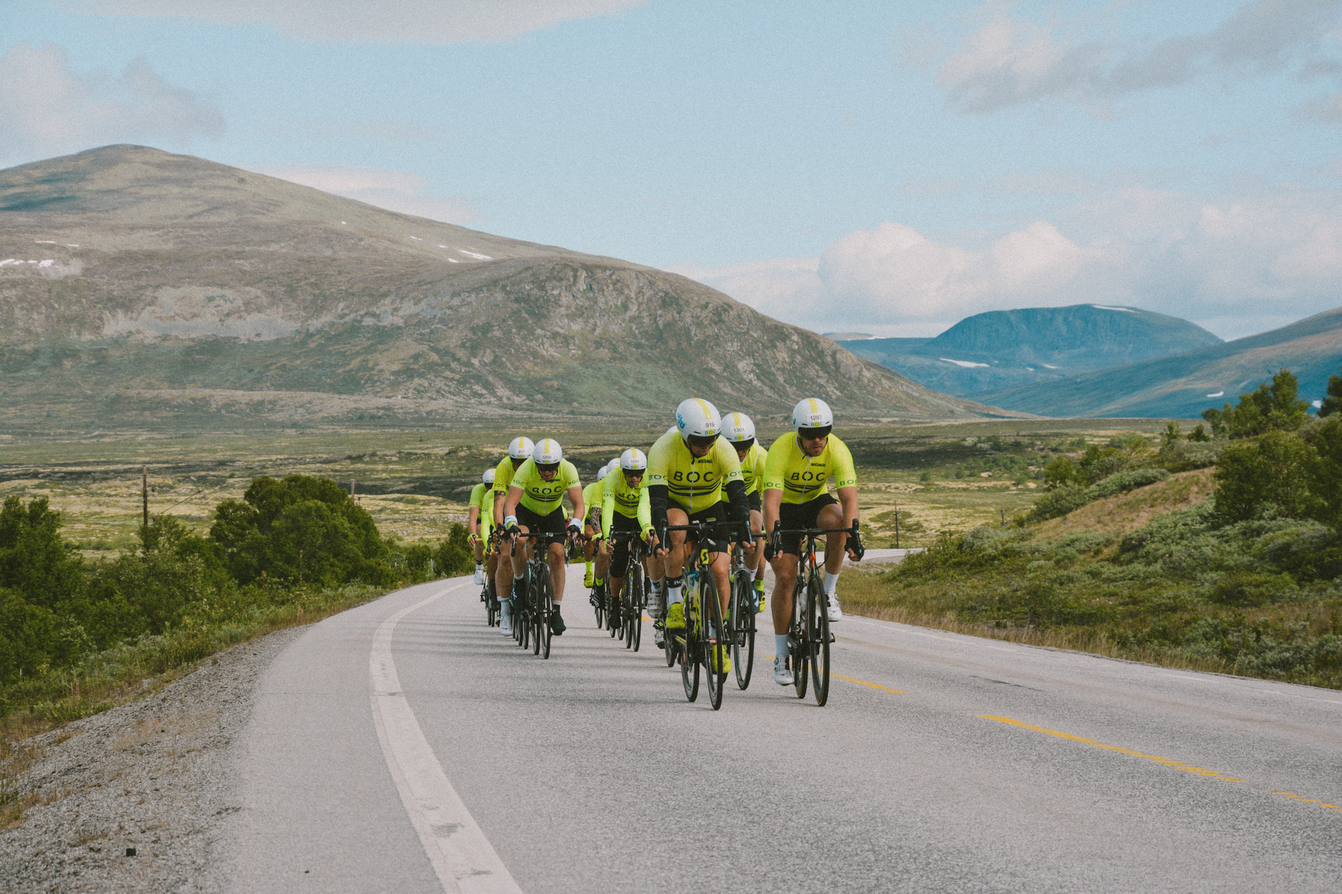
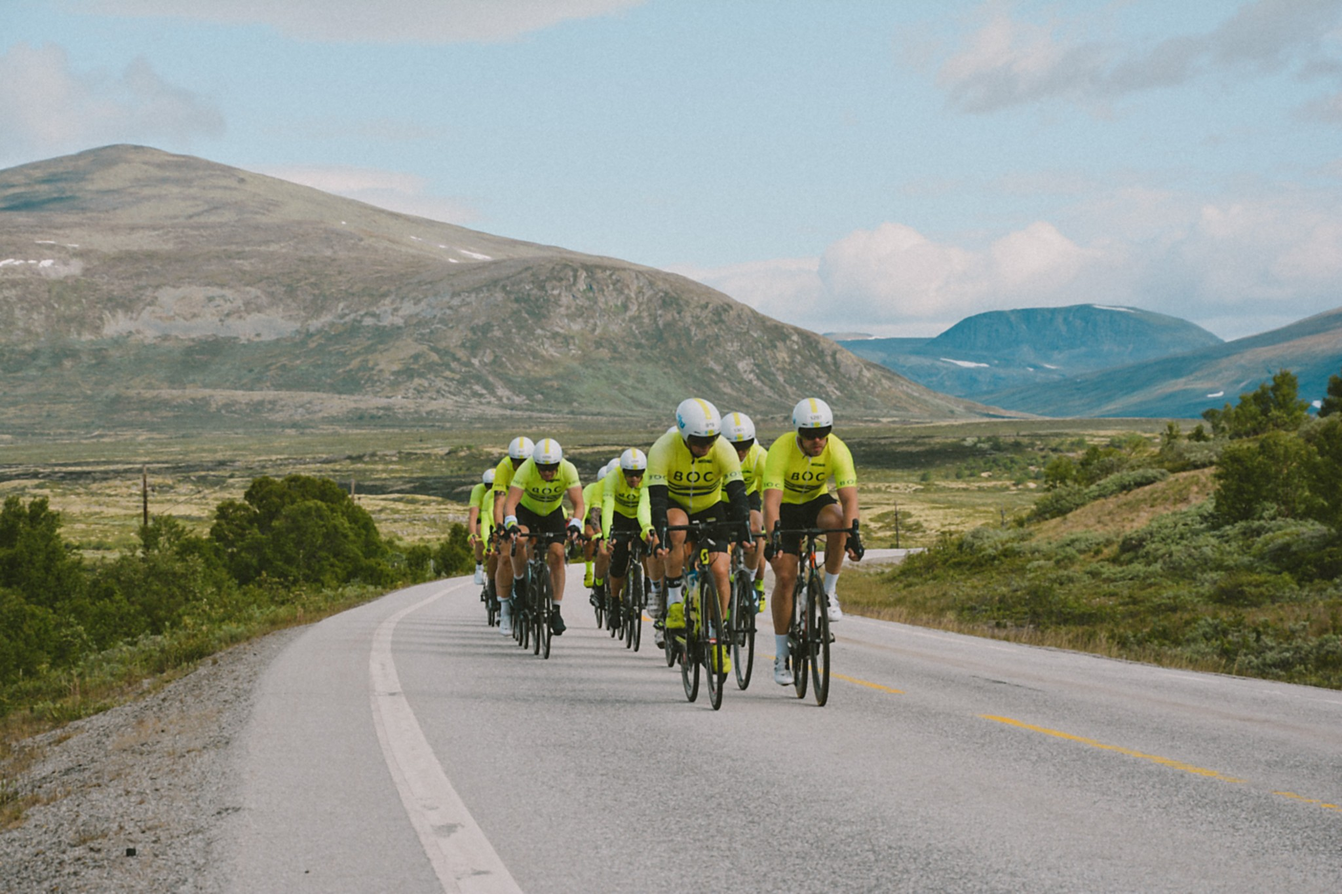
Hvit studio keeps older portraits without a background mark; BOC T-O pace and Langdistanse label in the menu; sponsors on one row; softer BOC 1 photo

diff --git a/src/components/public/sponsors.tsx b/src/components/public/sponsors.tsx
@@ -3,65 +3,57 @@ import type { Sponsor } from "@/lib/types";
 import { SponsorLogo } from "./sponsor-logos";
 
 /**
- * The club's backers in two groups, standing still: hovedsponsorer (`tier: "main"`) as large cards, one logo each with
- * what they are to the club under it, and samarbeidspartnere as a quieter row of smaller logos. With so few of each, a
- * moving strip would only hide them; every logo is in view at once and links to the partner's own site.
+ * The club's backers in two groups, standing still and on one row: hovedsponsorer (`tier: "main"`) with slightly larger logos
+ * and samarbeidspartnere with ordinary ones, each logo with what they are to the club under it, a hairline between the two
+ * groups (above and below on a phone). With so few of each, a moving strip would only hide them; every logo is in view at once
+ * and links to the partner's own site.
  *
  * It stands under the hero's numbers on the front page, on Om klubben, and again in the footer of every page;
- * `tone="inverse"` is the footer's, on the club's dark colour, with lower cards and ordinary-sized logos. A club with only one kind shows only that group.
+ * `tone="inverse"` is the footer's, on the club's dark colour. A club with only one kind shows only that group.
  */
 export function Sponsors({ sponsors, tone = "default", className }: { sponsors: Sponsor[]; tone?: "default" | "inverse"; className?: string }) {
   if (!sponsors.length) return null;
   const main = sponsors.filter((s) => s.tier === "main");
   const partners = sponsors.filter((s) => s.tier !== "main");
   const inverse = tone === "inverse";
+  const rule = inverse ? "border-white/10" : "border-line";
   return (
-    <div className={cn("py-10 lg:py-14", className)}>
+    <div className={cn("flex flex-col gap-8 py-8 lg:flex-row lg:items-stretch lg:gap-0 lg:py-10", className)}>
       {main.length > 0 && (
-        <Group
-          title="Hovedsponsorer"
-          text="Støtter barne- og ungdomsidretten i klubben."
-          inverse={inverse}
-        >
-          <ul className={cn("grid gap-3 sm:grid-cols-2 lg:gap-4", main.length > 2 && "lg:grid-cols-3")}>
-            {main.map((s) => (
-              <li key={s.name}>
-                <Backer sponsor={s} inverse={inverse} large={!inverse} className={cn("flex flex-col items-center justify-center gap-3 rounded-lg border px-6", inverse ? "h-28 border-white/15 bg-white/[0.04] hover:border-white/35 lg:h-32" : "h-40 gap-4 border-line bg-surface hover:border-line-strong lg:h-48")} />
-              </li>
-            ))}
-          </ul>
+        <Group title="Hovedsponsorer" text="Støtter barne- og ungdomsidretten i klubben." inverse={inverse} className={cn(partners.length > 0 && "lg:pr-14")}>
+          {main.map((s) => (
+            <li key={s.name}>
+              <Backer sponsor={s} inverse={inverse} large />
+            </li>
+          ))}
         </Group>
       )}
       {partners.length > 0 && (
-        <Group title="Samarbeidspartnere" inverse={inverse} className={cn(main.length > 0 && "mt-10 border-t pt-10 lg:mt-12 lg:pt-12", main.length > 0 && (inverse ? "border-white/10" : "border-line"))}>
-          <ul className="flex flex-wrap items-start gap-x-10 gap-y-8 lg:gap-x-14">
-            {partners.map((s) => (
-              <li key={s.name}>
-                <Backer sponsor={s} inverse={inverse} className="flex flex-col items-start gap-3" />
-              </li>
-            ))}
-          </ul>
+        <Group title="Samarbeidspartnere" inverse={inverse} className={cn(main.length > 0 && cn("border-t pt-8 lg:border-t-0 lg:border-l lg:pt-0 lg:pl-14", rule))}>
+          {partners.map((s) => (
+            <li key={s.name}>
+              <Backer sponsor={s} inverse={inverse} />
+            </li>
+          ))}
         </Group>
       )}
     </div>
   );
 }
 
-/** A heading in the left column and the logos at the right, as the old strip had them; stacked on a phone. */
+/** A heading with the logos under it in a row that wraps; the two groups stand side by side from lg. */
 function Group({ title, text, inverse, className, children }: { title: string; text?: string; inverse: boolean; className?: string; children: React.ReactNode }) {
   return (
-    <div className={cn("grid-page items-start gap-y-6", className)}>
-      <div className="col-span-4 md:col-span-8 lg:col-span-3">
-        <h2 className={cn("t-small font-medium", inverse ? "text-white" : "text-ink")}>{title}</h2>
-        {text && <p className={cn("t-small", inverse ? "text-white/60" : "text-ink-3")}>{text}</p>}
-      </div>
-      <div className="col-span-4 md:col-span-8 lg:col-span-9">{children}</div>
+    <div className={cn("min-w-0", className)}>
+      <h2 className={cn("t-small font-medium", inverse ? "text-white" : "text-ink")}>{title}</h2>
+      {text && <p className={cn("t-small", inverse ? "text-white/60" : "text-ink-3")}>{text}</p>}
+      <ul className="mt-5 flex flex-wrap items-start gap-x-10 gap-y-6">{children}</ul>
     </div>
   );
 }
 
 /** One logo, linked to the partner's site when it has one, with what they are to the club under it (unless that only repeats the group's name). */
-function Backer({ sponsor: s, inverse, large, className }: { sponsor: Sponsor; inverse: boolean; large?: boolean; className?: string }) {
+function Backer({ sponsor: s, inverse, large }: { sponsor: Sponsor; inverse: boolean; large?: boolean }) {
   const caption = s.kind && !(s.tier === "main" && /^hovedsponsor$/i.test(s.kind)) ? s.kind : undefined;
   const content = (
     <>
@@ -70,7 +62,7 @@ function Backer({ sponsor: s, inverse, large, className }: { sponsor: Sponsor; i
     </>
   );
   const tint = inverse ? "text-white/70 hover:text-white" : "text-ink-2 hover:text-ink";
-  const base = cn("transition-colors duration-200", tint, className);
+  const base = cn("flex flex-col items-start gap-2 transition-colors duration-200", tint);
   return s.url ? (
     <a href={s.url} target="_blank" rel="noopener" aria-label={`${s.name}${s.kind ? `, ${s.kind}` : ""}, åpnes på ny side`} className={cn("focus-visible:outline-2 focus-visible:outline-offset-4", base)}>
       {content}

diff --git a/src/app/actions.ts b/src/app/actions.ts
@@ -2465,7 +2465,7 @@ export async function setPortrait(formData: FormData): Promise<PortraitResult> {
   const withTransparency = formData.get("transparent") === "true";
   // What the browser found at the edges of the picture (prepareImage): a plain white or see-through background, or neither.
   const sentBackground = formData.get("background");
-  const background: "white" | "transparent" | undefined = sentBackground === "white" || sentBackground === "transparent" ? sentBackground : withTransparency ? "transparent" : undefined;
+  const background: "white" | "transparent" | "other" | undefined = sentBackground === "white" || sentBackground === "transparent" || sentBackground === "other" ? sentBackground : withTransparency ? "transparent" : undefined;
   if (!(file instanceof File) || !/^image\/(jpeg|png|webp)$/.test(file.type)) return { ok: false, error: "Velg et bilde (JPEG, PNG eller WebP)." };
   if (file.size > maxUploadBytes(user, 400_000, 3_000_000)) return { ok: false, error: "Bildet er for stort. Velg et mindre bilde, så gjør nettsiden det lite nok selv." };
   if (!(width > 0 && height > 0 && width <= 4000 && height <= 4000)) return { ok: false, error: "Kunne ikke lese bildets størrelse." };
@@ -2501,7 +2501,7 @@ export async function setPortrait(formData: FormData): Promise<PortraitResult> {
   await mutate(clubId, (d) => {
     const p = d.people.find((x) => x.id === person.id)!;
     // A portrait on a white or see-through background that fits the card (studioProblem in lib/content.ts) is a studio portrait to begin with, unless a style is already chosen.
-    if (!p.cardStyle && !db.photos.find((x) => x.id === person.portraitPhotoId)?.cardStyle && !studioProblem(photo)) p.cardStyle = "studio";
+    if (!p.cardStyle && !db.photos.find((x) => x.id === person.portraitPhotoId)?.cardStyle && (photo.background === "white" || photo.background === "transparent") && !studioProblem(photo)) p.cardStyle = "studio";
     // A chosen style that the new picture does not suit becomes «Farget kort»; a picture too wide for «Hvit studio» never keeps it.
     if (p.cardStyle) p.cardStyle = allowedStyle(p.cardStyle, photo);
     // A portrait replaced in admin is removed; one from the seed stays, unused.

diff --git a/src/lib/types.ts b/src/lib/types.ts
@@ -378,6 +378,8 @@ export interface OrgNode {
   pageHeading?: string;
   /** Keeps the route and content available while omitting this node from primary navigation. */
   hideFromNavigation?: boolean;
+  /** A short label shown after the pace or age in the menu and the group browser: «Langdistanse». */
+  menuTag?: string;
   /**
    * The group is reached from a sister group's page, not offered as a match in the front-page finder: BOC T-O rides at
    * BOC 3's level, so the finder shows BOC 3 and BOC 3's page explains the difference, rather than two cards a newcomer
@@ -817,10 +819,11 @@ export interface Photo {
   cardStyle?: "natural" | "studio" | "color";
   /**
    * «white» or «transparent» when the picture stands on a plain white or see-through background, which the «Hvit studio»
-   * card requires (see studioProblem in lib/content.ts). Detected in the browser when a portrait is uploaded
-   * (prepareImage) and set in the seed for the studio portraits; missing means it is not known to be either.
+   * card requires (see studioProblem in lib/content.ts); «other» when the browser looked at the edges of an uploaded portrait
+   * (prepareImage) and found neither. Set in the seed for the studio portraits. Missing means nobody has checked (a portrait
+   * uploaded before this was recorded): «Hvit studio» is then left to whoever chose it.
    */
-  background?: "white" | "transparent";
+  background?: "white" | "transparent" | "other";
   people: PhotoPerson[];
   /** Permanent redactions applied by anonymisation. */
   redactions: Region[];

diff --git a/src/components/admin/prepare-image.ts b/src/components/admin/prepare-image.ts
@@ -22,7 +22,7 @@ export async function prepareImage(
   max: number,
   regions: CensorRegion[] = [],
   budget: number = UPLOAD_BYTES.large,
-): Promise<{ blob: Blob; width: number; height: number; ext: "jpg" | "webp" | "png"; transparent: boolean; background?: "white" | "transparent" }> {
+): Promise<{ blob: Blob; width: number; height: number; ext: "jpg" | "webp" | "png"; transparent: boolean; background: "white" | "transparent" | "other" }> {
   const bitmap = await createImageBitmap(file);
   const scale = Math.min(1, max / Math.max(bitmap.width, bitmap.height));
   let width = Math.round(bitmap.width * scale);
@@ -89,7 +89,7 @@ function hasTransparency(canvas: HTMLCanvasElement): boolean {
  * three quarters. At least 94 % of those pixels must be see-through (alpha under 40) or near white (every channel 240 or
  * more, opaque). «transparent» when most of them are see-through, otherwise «white»; undefined when the edges are anything else.
  */
-function plainBackground(canvas: HTMLCanvasElement): "white" | "transparent" | undefined {
+function plainBackground(canvas: HTMLCanvasElement): "white" | "transparent" | "other" {
   const size = 64;
   const probe = document.createElement("canvas");
   probe.width = size;
@@ -111,6 +111,6 @@ function plainBackground(canvas: HTMLCanvasElement): "white" | "transparent" | u
     look(0, y);
     look(size - 1, y);
   }
-  if ((clear + white) / total < 0.94) return undefined;
+  if ((clear + white) / total < 0.94) return "other";
   return clear > total / 2 ? "transparent" : "white";
 }

diff --git a/src/components/public/sponsor-logos.tsx b/src/components/public/sponsor-logos.tsx
@@ -142,7 +142,7 @@ const LOGO_FILES: Record<string, StaticImageData> = {
 };
 const LOGO_AREA = 3600;
 /** A hovedsponsor's logo is drawn with this many times the area of a samarbeidspartner's. */
-const LARGE_AREA = 2.4;
+const LARGE_AREA = 1.6;
 /* How far to lower a logo, as a share of its height, so that its name — not
    its whole box — sits on the strip's centre line. Genus carries a small line
    of text under the wordmark: the wordmark fills rows 0–258 of 415, so its
@@ -156,7 +156,7 @@ function FileLogo({ name, image, size }: { name: string; image: StaticImageData;
     <span
       role="img"
       aria-label={name}
-      className={`block bg-current [mask-position:center] [mask-repeat:no-repeat] [mask-size:contain] lg:scale-110 ${size === "lg" ? "" : "origin-left"}`}
+      className={`block bg-current [mask-position:center] [mask-repeat:no-repeat] [mask-size:contain] lg:scale-110 origin-left`}
       style={{
         width: height * aspect,
         height,
@@ -179,7 +179,7 @@ export function SponsorLogo({ name, size = "md" }: { name: string; size?: "md" |
     </Mark>
   );
   // The drawn marks are fixed-height SVGs; a large one is the same drawing taller.
-  return size === "lg" ? <span className="block [&_svg]:!h-12 lg:[&_svg]:!h-14">{mark}</span> : mark;
+  return size === "lg" ? <span className="block [&_svg]:!h-10 lg:[&_svg]:!h-11">{mark}</span> : mark;
 }
 
 export const hasSponsorLogo = (name: string) => name in LOGOS || name in LOGO_FILES;

diff --git a/src/lib/content.ts b/src/lib/content.ts
@@ -185,12 +185,14 @@ export const isWidePortrait = (photo?: Pick<Photo, "width" | "height">) => !!pho
  * What the «Hvit studio» card requires of a portrait: a plain white or see-through background (Photo.background), and a shape
  * that is not wider than 120 % of its height (width / height at most 1.2), since the card sets the person upright on white.
  * Returns why the picture does not qualify, in the words admin shows, or undefined when it does.
- * Method: ratio = width / height; too wide when ratio > 1.2; the background is what Photo.background says.
+ * Method: ratio = width / height; too wide when ratio > 1.2. A picture is turned down for its background only when it is
+ * known to have neither (background «other»); one nobody has checked (missing) is allowed, so a portrait uploaded before the
+ * background was recorded keeps the style someone chose for it.
  */
 export const STUDIO_MAX_RATIO = 1.2;
 export function studioProblem(photo?: Pick<Photo, "width" | "height" | "background">): string | undefined {
   if (!photo) return "Det er ikke lagt inn noe bilde.";
-  if (!photo.background) return "Bildet har ikke hvit eller gjennomsiktig bakgrunn.";
+  if (photo.background === "other") return "Bildet har ikke hvit eller gjennomsiktig bakgrunn.";
   if (photo.height > 0 && photo.width / photo.height > STUDIO_MAX_RATIO) return "Bildet er mer enn 20 % bredere enn det er høyt.";
   return undefined;
 }

diff --git a/src/lib/data/seed/boc.ts b/src/lib/data/seed/boc.ts
@@ -1175,13 +1175,19 @@ function nodes({ at, on }: SeedCtx): OrgNode[] {
       name: "BOC T-O",
       slug: "boc-t-o",
       outsideFinder: true,
+      // The same level as BOC 3, so the menu says its pace; «Langdistanse» says what the group is for.
+      firstTraining: { pace: "27–30 km/t" },
+      menuTag: "Langdistanse",
       ageLabel: "Fra 17 år",
       ageRange: [17, 99],
       summary: "Sykler Trondheim–Oslo. Samme nivå som BOC 3, men mer rullekjøring. Trener ofte for seg selv, noen ganger med BOC 3.",
       description:
         "BOC T-O er gruppa for deg som skal sykle Trondheim–Oslo. Alle kan bli med, men du forplikter deg til å sykle rittet: det er poenget med gruppa. Nivået er som i BOC 3, men BOC T-O sykler mer rullekjøring på trening. Gruppa trener ofte for seg selv, og noen ganger sammen med BOC 3.",
       seasonFocus: "Trondheim–Oslo",
-      moreFacts: [{ value: "Forpliktende", label: "Du sykler Trondheim–Oslo" }],
+      moreFacts: [
+        { value: "27–30 km/t", label: "Tempo" },
+        { value: "Langdistanse", label: "Forpliktende: du sykler Trondheim–Oslo" },
+      ],
       // The yellow button (secondary) is joining; the other is the choice between the two groups.
       heroActions: {
         primary: { label: "BOC 3 eller BOC T-O?", href: "#boc-3-eller-t-o" },

diff --git a/src/components/public/site-header.tsx b/src/components/public/site-header.tsx
@@ -20,6 +20,8 @@ export interface NavItem {
   name: string;
   audience?: string;
   requirement?: string;
+  /** A short label after the audience: «Langdistanse». */
+  tag?: string;
   href: string;
 }
 
@@ -314,9 +316,10 @@ export function SiteHeader({ clubName, letters, logo = "crest", sports, menuLabe
                             <li key={i.id}>
                               <Link href={i.href} className="flex min-h-11 min-w-0 flex-col justify-center gap-1 rounded-md px-2 py-1.5 t-body text-ink active:bg-muted">
                                 <span className="min-w-0 truncate">{i.name}</span>
-                                {(i.audience || i.requirement) && (
+                                {(i.audience || i.requirement || i.tag) && (
                                   <span className="flex flex-wrap gap-1">
                                     {i.audience && <Status tone="club">{i.audience}</Status>}
+                                    {i.tag && <Status>{i.tag}</Status>}
                                     {i.requirement && <Status tone="danger">{i.requirement}</Status>}
                                   </span>
                                 )}

diff --git a/src/components/public/group-browser.tsx b/src/components/public/group-browser.tsx
@@ -171,9 +171,10 @@ function Sections({ entry }: { entry: BrowserEntry }) {
                 <p className="text-[15px] font-semibold tracking-[-0.01em] text-ink group-hover:text-club">
                   <NameWithArrow name={g.name} />
                 </p>
-                {(g.audience || g.requirement) && (
+                {(g.audience || g.requirement || g.tag) && (
                   <p className="mt-1 flex flex-wrap gap-1">
                     {g.audience && <Status tone="club">{g.audience}</Status>}
+                    {g.tag && <Status>{g.tag}</Status>}
                     {g.requirement && <Status tone="danger">{g.requirement}</Status>}
                   </p>
                 )}

diff --git a/src/components/public/sports-menu.tsx b/src/components/public/sports-menu.tsx
@@ -161,6 +161,7 @@ export function SportsMenu({
                           >
                             <span className="truncate">{item.name}</span>
                             {item.audience && <Status tone="club">{item.audience}</Status>}
+                            {item.tag && <Status>{item.tag}</Status>}
                             {item.requirement && <Status tone="danger">{item.requirement}</Status>}
                           </Link>
                         </li>

diff --git a/src/lib/nav.ts b/src/lib/nav.ts
@@ -20,7 +20,7 @@ function menuGroupItem(branchId: string, group: OrgNode) {
     audience = "Alle nivåer";
     requirement = "Krever kurs";
   }
-  return { id: group.id, name: group.name, audience, requirement };
+  return { id: group.id, name: group.name, audience, requirement, tag: group.menuTag };
 }
 
 /** Two levels below each sport — enough to reach any age group in one step. */

diff --git a/README.md b/README.md
@@ -204,10 +204,12 @@ Demo data can be reset from the user menu in admin (or by restarting the server)
 - **Board roles on the sign-up page** (`/bli-gruppeleder`, `SignupRole` in `lib/leader-signup.ts`, `claimGroup`): the form has a «Rolle» choice. Lagleder works as before (one group nobody else runs). Styremedlem gets the «Styremedlem» quick pick for the whole club; Styreleder gets every permission for the whole club, i.e. is a club administrator. Neither needs a group and neither is ever «taken». Like the rest of the page they give out access without an invitation (only the optional meeting code guards them), so set `LEADER_SIGNUP=off` once everyone has signed up. An address that already has a user keeps its access and gets the board permissions added.
 - **Holding page on the club's domain (temporary)** (`lib/holding.ts`, `/under-arbeid`, check at the top of `src/proxy.ts`): on `baerumock.no` and `www.baerumock.no` every request gets the «Noe nytt er på vei» page (a dark page in the club's header colours: a road that draws itself with a light riding along it, drifting glows, the headline rising word by word; CSS only, the `.hold-*` block at the end of `globals.css`, and with reduced motion on it is just the finished picture) with status 503, `Retry-After` and `X-Robots-Tag: noindex`, admin and API included, until the environment variable `SITE_LIVE` is set to `on` (Vercel › Settings › Environment Variables, then redeploy). It holds by default, so the domain can be pointed at Vercel before the site is ready. Other hosts (`boc.jakobjolstad.com`, the Vercel address, localhost) show the real site, which is where admin is used meanwhile. The proxy matcher now covers every path except `_next/static`, `_next/image` and files with an extension; the admin check still only runs on `/admin`. Remove the file, the page and the proxy check when the domain has been live for a while.
 - **Example quotes removed from the seed** (`lib/data/seed/boc.ts`): all 30 group quotes and the 7 front-page quotes marked `example: true` are gone, so the front page's «Fra medlemmene» shows only Jakob's own quote (from the Zwift page) and the group pages show quotes only where a real member has given one (today Zwift). The `example` flag and the «Eksempel» tag stay in the code for any new placeholder. The invented demo riders (`bp-demo-*`) and their member stories are still in the register and the news; they are not quotes. A club saved from admin keeps its own copy of the groups and `testimonials` in Supabase and that copy wins over the seed, so group quotes stored there have to be removed in `/admin/sitater`. The front page's list (`Club.testimonials`) cannot be edited in admin, and the stored copy of `club` would hide the seed's change, so `applyOverrides` (`withoutRetiredExamples` in `lib/data/overrides.ts`) leaves out a stored example quote that the seed no longer has; quotes without `example`, and examples the seed still has, stay.
-- **«Hvit studio» is for white or see-through portraits that are not wide** (`studioProblem`, `allowedStyle`, `cardStyleOf` in `lib/content.ts`, `Photo.background`, `plainBackground` in `components/admin/prepare-image.ts`): the white quote card is only possible for a portrait on a plain white or see-through background whose width is at most 120 % of its height (`STUDIO_MAX_RATIO`). The browser checks the top edge and the sides of the upper three quarters of the picture when it is uploaded (94 % see-through or near white) and sends `background`; the seed sets it for Jakob's cut-out. A picture that does not qualify greys out the option in `/admin/sitater` with the reason, `setPortraitStyle` refuses it, a new picture that does not suit the chosen style turns it into «Farget kort», and the public card never uses «Hvit studio» for such a picture whoever chose it. A portrait that does qualify gets «Hvit studio» when no style is chosen. «Naturlig» still wants a picture more than 50 % wider than tall, and warns only. Portraits uploaded before this have no `background`, so they cannot be «Hvit studio» until they are uploaded again.
+- **«Hvit studio» is for white or see-through portraits that are not wide** (`studioProblem`, `allowedStyle`, `cardStyleOf` in `lib/content.ts`, `Photo.background`, `plainBackground` in `components/admin/prepare-image.ts`): the white quote card is only possible for a portrait on a plain white or see-through background whose width is at most 120 % of its height (`STUDIO_MAX_RATIO`). The browser checks the top edge and the sides of the upper three quarters of the picture when it is uploaded (94 % see-through or near white) and sends `background`; the seed sets it for Jakob's cut-out. A picture that does not qualify greys out the option in `/admin/sitater` with the reason, `setPortraitStyle` refuses it, a new picture that does not suit the chosen style turns it into «Farget kort», and the public card never uses «Hvit studio» for such a picture whoever chose it. A portrait that does qualify gets «Hvit studio» when no style is chosen. «Naturlig» still wants a picture more than 50 % wider than tall, and warns only. A portrait is turned down for its background only when it is known to have neither (`background: "other"`, found by the check at upload); one uploaded before the check has no `background` and keeps «Hvit studio» if someone chose it. It is always turned down when it is more than 20 % wider than tall.
 - **The sports grant is a pot, not an amount per person** (`/klubben/idrettsstipend`, `Club.pages` in `seed/boc.ts`, `StipendCertificate`): the texts say «en pott på inntil 150 000 kroner» that is shared between those who are awarded the grant, not «opptil 150 000 kroner» for one. `Club.pages` cannot be edited in admin, so `withoutRetiredExamples` in `lib/data/overrides.ts` always takes the pages from the seed: a text corrected in the code reaches the site even when the club record was saved from admin before.
-- **Sponsors in two groups, standing still** (`components/public/sponsors.tsx`, `Sponsor.tier` in `lib/types.ts`, `SponsorLogo` size in `sponsor-logos.tsx`): the partner strip is split into «Hovedsponsorer» (`tier: "main"`, large bordered cards, one logo each with `kind` under it, except when `kind` only says «Hovedsponsor») and «Samarbeidspartnere» (no tier, or `"partner"`; smaller logos in a row, `kind` under each). The logo marquee and its CSS are gone: with so few logos every one is in view at once and links to the partner's site. In the footer (`tone="inverse"`) the cards are lower and the logos ordinary size. BOC: Genus and Kalas are hovedsponsorer, Anton Sport a samarbeidspartner (Genus's `kind` is now «Hovedsponsor», which the Genus Open page quotes). `Club.sponsors`, like `Club.pages`, cannot be edited in admin, so `applyOverrides` always takes it from the seed.
+- **Sponsors in two groups, on one row, standing still** (`components/public/sponsors.tsx`, `Sponsor.tier` in `lib/types.ts`, `SponsorLogo` size in `sponsor-logos.tsx`): the partner strip is split into «Hovedsponsorer» (`tier: "main"`, slightly larger logos with `kind` under each, except when `kind` only says «Hovedsponsor») and «Samarbeidspartnere» (no tier, or `"partner"`; ordinary logos, `kind` under each). From lg the two groups stand side by side on one row with a hairline between them (stacked with a hairline on a phone), so the strip is about 100 px tall; there are no cards. The logo marquee and its CSS are gone: with so few logos every one is in view at once and links to the partner's site. BOC: Genus and Kalas are hovedsponsorer, Anton Sport a samarbeidspartner (Genus's `kind` is now «Hovedsponsor», which the Genus Open page quotes). `Club.sponsors`, like `Club.pages`, cannot be edited in admin, so `applyOverrides` always takes it from the seed.
 - **No slant on a white studio card** (`QuoteStage`, `components/public/quote-stage.tsx`): the single-quote card (a lone quote on desktop, and every card on a phone, where the slant is hidden anyway) has a skewed surface leaning into the picture. For a «Hvit studio» portrait (a cut-out on white) that slant is left out and the picture stays in its own column, so the person stands upright on the white card. Other portraits keep the slanted edge.
 - **BOC T-O is its own group next to BOC 3** (`b-boc-to` and `threeOrTo` in `seed/boc.ts`, `OrgNode.outsideFinder` and `trainsOnOwn` in `types.ts`): BOC T-O rides at BOC 3's level and sometimes trains with it, but has Trondheim–Oslo as its goal, more rolling on training, trains mostly on its own, and takes anyone who commits to riding Trondheim–Oslo. The two used to be one page headed «BOC 3 / BOC T-O»; now each has its page, and both carry the same short comparison «BOC 3 eller BOC T-O?» (goal, rolling, training, commitment) with a link to the other. BOC T-O is kept out of the front-page finder (`outsideFinder`, filtered in `buildExplorer`), so a newcomer meets BOC 3 there, and BOC 3's summary points to T-O; it is in the menu and the search. `trainsOnOwn` leaves out «Første trening» and turns «Prøv en trening med …» into «Bli med i BOC T-O» (and a hint that BOC 3's sessions can be tried first); the season summary is hidden, and «Slik blir du med» (`participation`) tells the steps: join the club, join BOC Landevei in Spond (all road groups share the code, each with its own subgroup, T-O included), and join because you want to ride Trondheim–Oslo. Jørgen Lervik Åström is gruppeleder (`headCoach`, the one the page presents) and Knut Aanonsen the other Road Captain; both moved from BOC 3 to BOC T-O.
 - **Buttons, pictures and HTML in news** (`lib/article-cta.ts`, `components/admin/body-editor.tsx`, `Block` «button» and «html» in `lib/types.ts`, `components/public/html-embed.tsx`): in the composer and in the article editor, a round «+» sits beside a paragraph and adds, after that paragraph, a **button**, a **picture** or **HTML**. The composer's body is now a list of blocks (`layout` in `ComposerInput`; `body` stays the paragraphs joined, for names and checks); the article editor takes `buttons`, `htmls` and `inserts` (`ArticleEdit`). A button is set in the club's own colour (the `accent` button variant in `components/ui/button.tsx`: BOC's yellow with the club's dark text and a hairline), so it stands apart from the site's ordinary action-coloured (teal) buttons around it. A button has a label of at most 28 characters (`BUTTON_LABEL_MAX`, one line, truncated with an ellipsis on a phone) and a link that must be `https://`, `mailto:`, `tel:` or a page on this site starting with «/» (a bare address gets `https://`; `javascript:` and the like are refused, `normaliseButtonUrl`); at most 6 buttons and 3 HTML blocks per post. A picture placed in the text is one of the post's own pictures (or one from the library), stored as a `photo` block; the main picture is the first one not placed in the text, the rest stay in the gallery. **HTML is for club administrators only** (`isClubAdmin`, checked again in `publishPost` and `updateArticle`): it is shown in a sandboxed frame (`sandbox="allow-scripts allow-popups allow-popups-to-escape-sandbox allow-forms"`, no `allow-same-origin`, fixed height 80–1200 px), so its code cannot read the site's cookies or page. A button label and HTML code are plain text that anonymisation cannot rewrite, so the server refuses any that contains a registered person's full name (`personNameIn`); the editor warns about it and says HTML cannot be anonymised automatically. The «+» menu closes on a click outside, Escape or tabbing away, not on blur (Safari gives a clicked button no focus).
 - **«Lagleder» in the byline and the author list** (`bylineTitle` in `lib/access.ts`, `authorParts` in `lib/content.ts`, the author list in `admin/innhold/[id]/page.tsx`): someone who is only a «Frivillig» in the person register (a user made by an invitation or at the group leaders' meeting gets that membership) but has «Lagleder», «Trener» or similar access to the group an article is on is called that under the headline («Lagleder BOC 1»), not «Frivillig BOC 1». Old group-level access without a quick pick counts as «Lagleder». A role the register states itself (a Road Captain, a gruppeleder with a title) still goes first. The «Forfatter» list in the article editor uses the same words; the user pages keep the access level's own name («Lagadministrator»), since that says what the person may do.
+- **A label after the pace in the menu** (`OrgNode.menuTag` in `lib/types.ts`, `tag` in `NavItem`, shown by the header menu, `SportsMenu` and `GroupBrowser`): a group can carry a short neutral label next to its pace or age chip. BOC T-O says «27–30 km/t» (the same level as BOC 3, set as `firstTraining.pace`, which also feeds the menu's chip) and «Langdistanse»; its page has «Tempo 27–30 km/t» and «Langdistanse» in the fact row. It does not bring back «Første trening» or the finder entry (`trainsOnOwn`, `outsideFinder`).
+- **BOC 1's group photo, softened** (`components/assets/boc1-styrkeproven.jpg`, used for BOC 1's cover and two other Styrkeprøven photos): the file had a heavy grain baked in (a film-grain preset in the export, plainly visible in the sky at 1:1), which the site did not add and which showed on the large cards. It was run through a light noise reduction (3 px median, 0.9 px blur, a little sharpening, JPEG quality 90; 955 kB became 471 kB), keeping the detail in the jerseys and the road. The original is in git history; a clean export from the camera would be better still.
